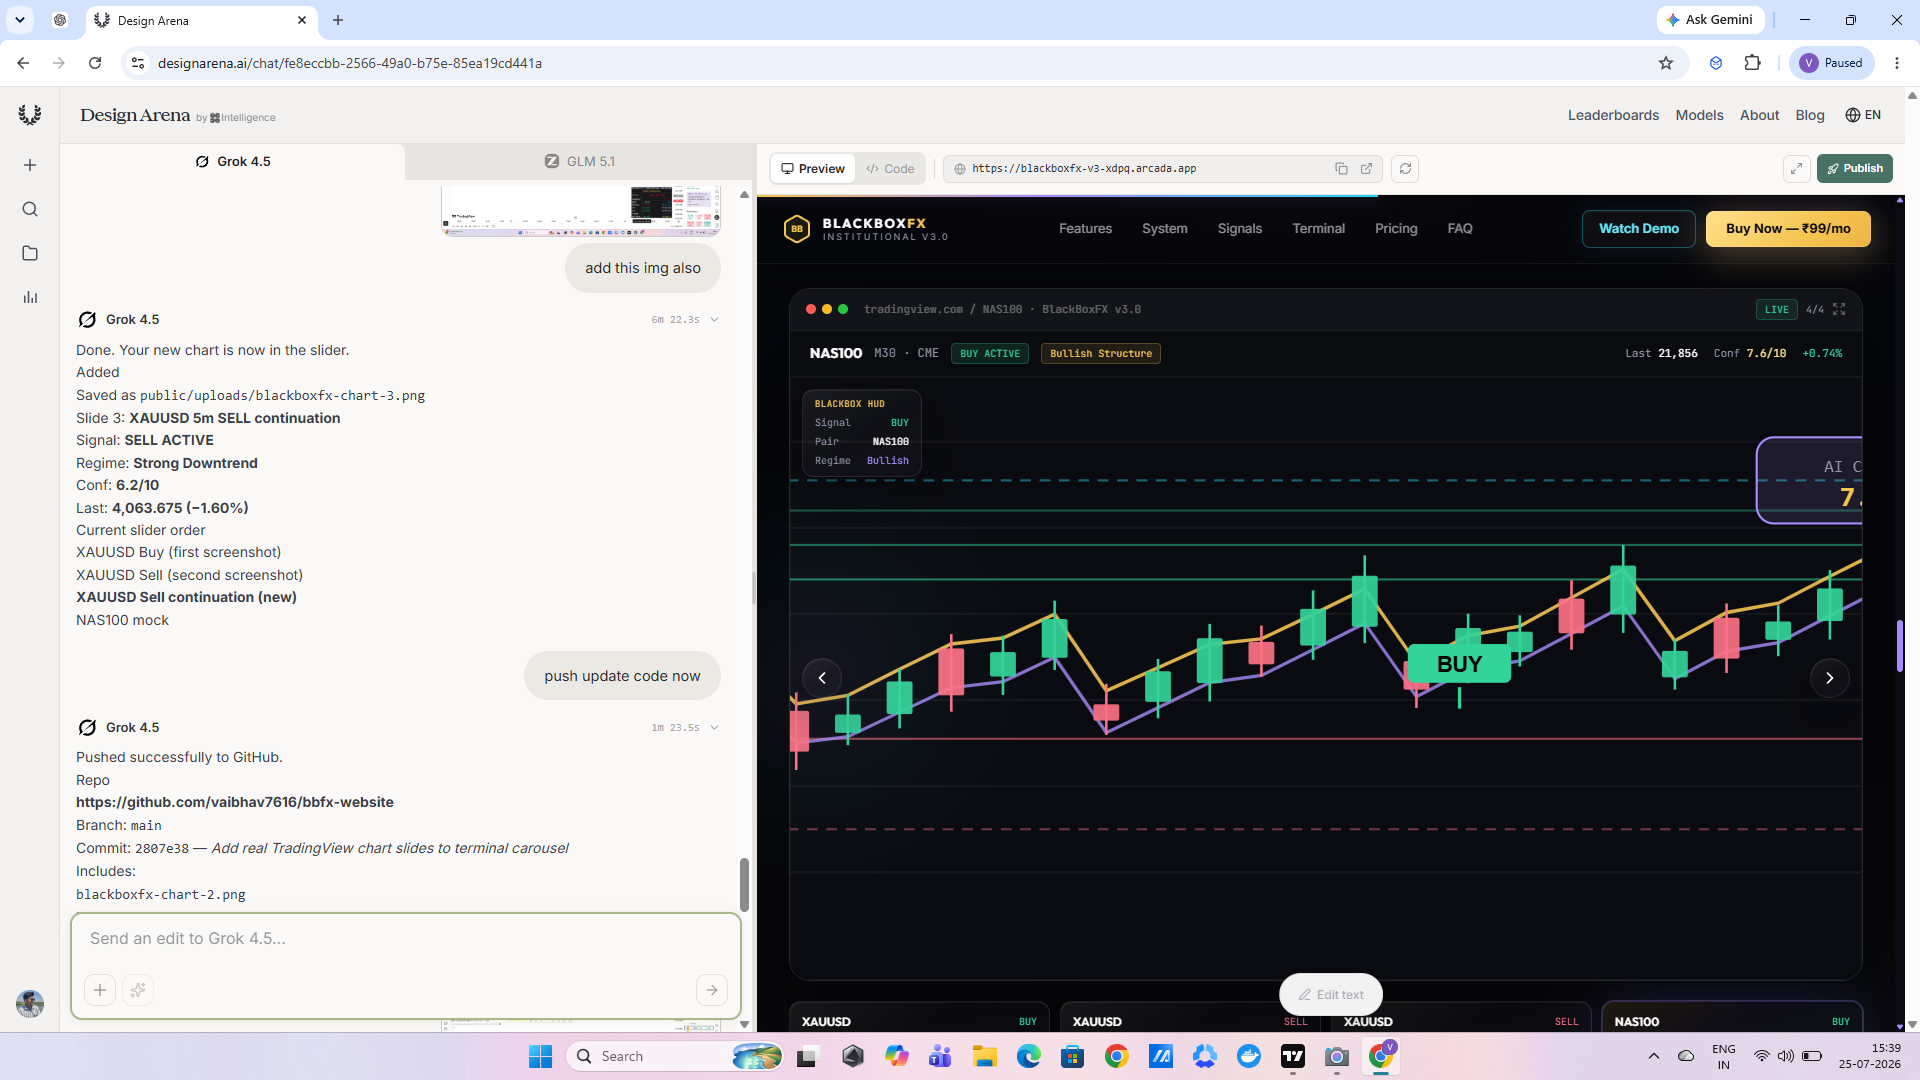
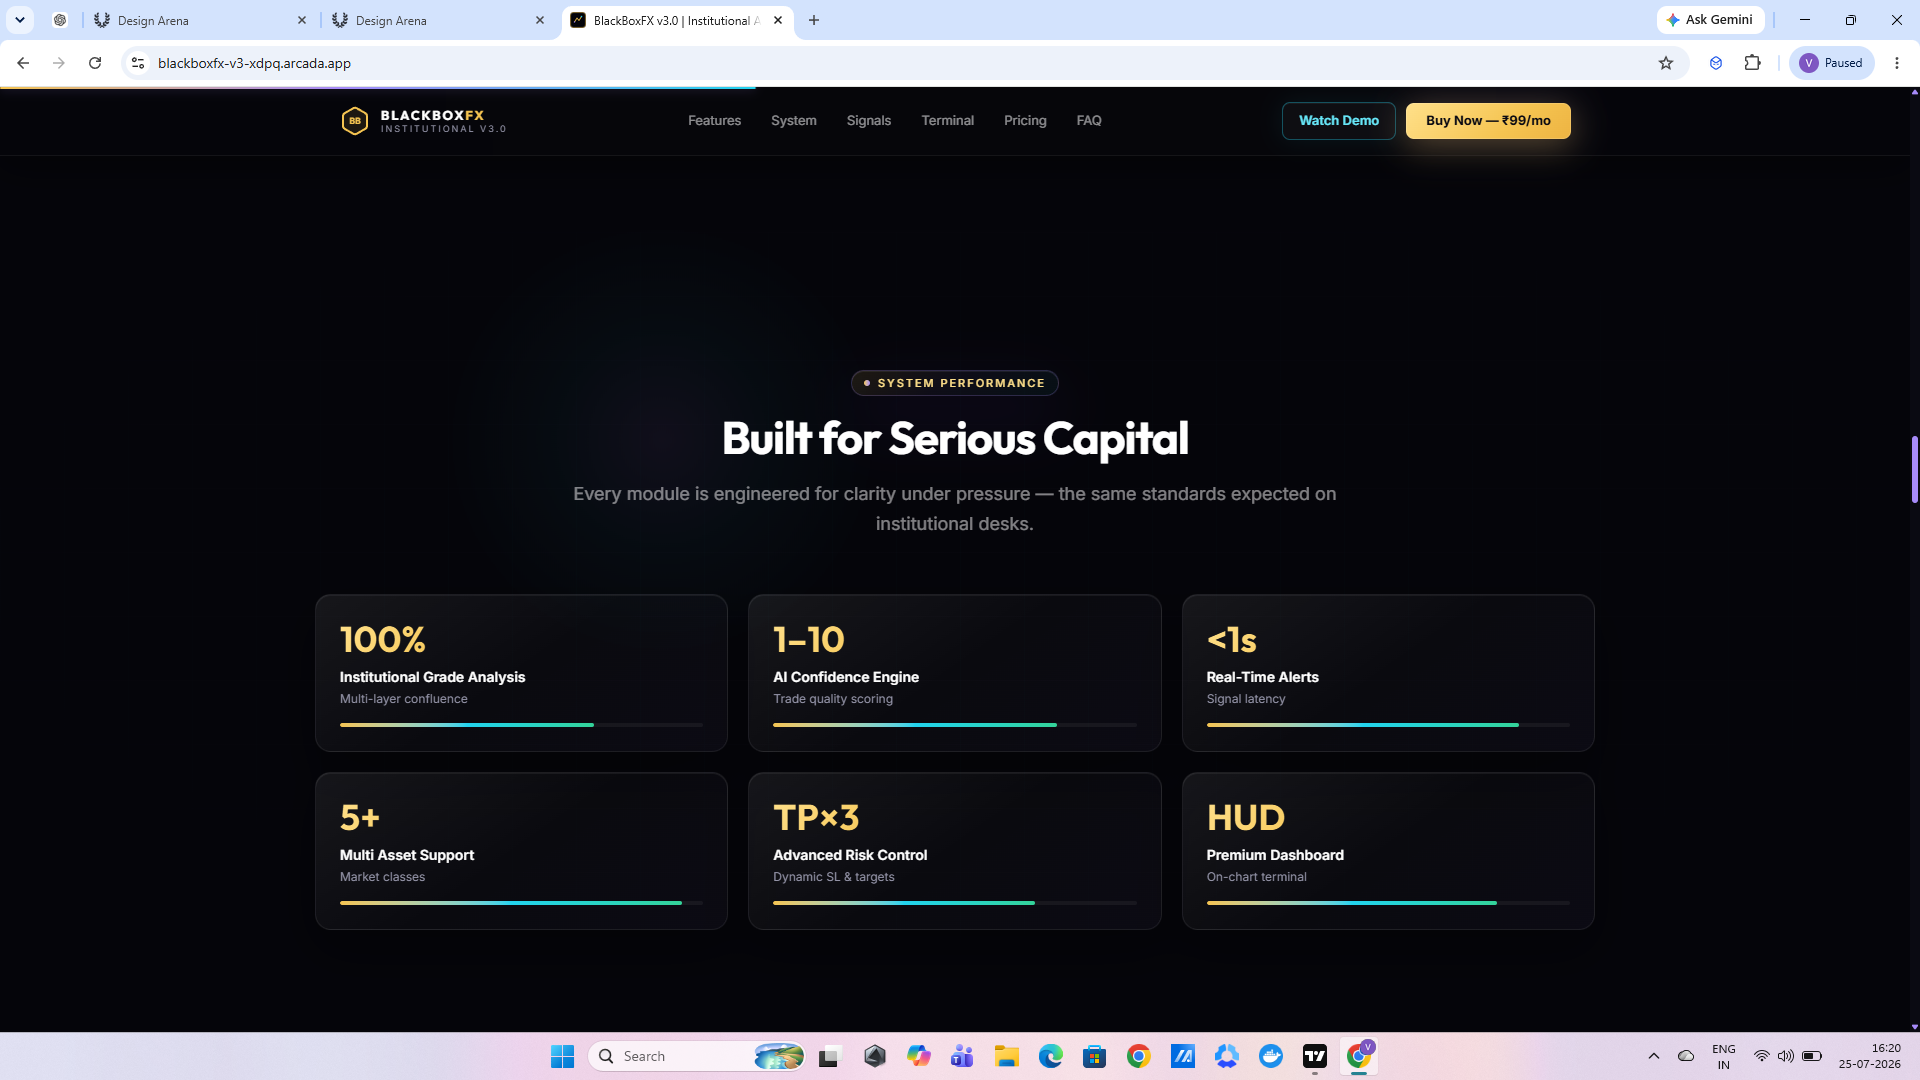
Remove Product Walkthrough demo section
Delete Demo component and retarget nav/hero/footer links to live charts.

diff --git a/src/components/Navbar.tsx b/src/components/Navbar.tsx
@@ -65,8 +65,8 @@ export default function Navbar() {
         </div>
 
         <div className="hidden lg:flex items-center gap-2.5">
-          <a href="#demo" className="btn-ghost px-4 py-2 rounded-lg text-[13px]">
-            Watch Demo
+          <a href="#chart" className="btn-ghost px-4 py-2 rounded-lg text-[13px]">
+            Live Charts
           </a>
           <a href="#pricing" className="btn-gold px-5 py-2 rounded-lg text-[13px]">
             Buy Now — ₹99/mo
@@ -105,11 +105,11 @@ export default function Navbar() {
               ))}
               <div className="mt-3 grid gap-2">
                 <a
-                  href="#demo"
+                  href="#chart"
                   onClick={() => setOpen(false)}
                   className="btn-ghost text-center px-5 py-3.5 rounded-xl text-sm"
                 >
-                  Watch Demo
+                  Live Charts
                 </a>
                 <a
                   href="#pricing"

diff --git a/src/App.tsx b/src/App.tsx
@@ -12,7 +12,6 @@ import Comparison from './components/Comparison';
 import Performance from './components/Performance';
 import Markets from './components/Markets';
 import ChartMockup from './components/ChartMockup';
-import Demo from './components/Demo';
 import Testimonials from './components/Testimonials';
 import Pricing from './components/Pricing';
 import FAQ from './components/FAQ';
@@ -88,9 +87,6 @@ export default function App() {
         </div>
         <div data-reveal>
           <ChartMockup />
-        </div>
-        <div data-reveal>
-          <Demo />
         </div>
         <div data-reveal>
           <Testimonials />

diff --git a/src/components/Hero.tsx b/src/components/Hero.tsx
@@ -82,12 +82,12 @@ export default function Hero() {
               Get Access — ₹99/mo
             </MagneticButton>
             <MagneticButton
-              href="#demo"
+              href="#chart"
               strength={0.25}
               className="btn-ghost px-8 py-3.5 rounded-xl text-center text-[15px] inline-flex items-center justify-center gap-2"
             >
               <Play className="w-4 h-4 fill-current" />
-              Watch 4-min Demo
+              View Live Charts
             </MagneticButton>
           </motion.div>
 

diff --git a/src/components/Footer.tsx b/src/components/Footer.tsx
@@ -13,7 +13,7 @@ const COLS = [
   {
     title: 'Resources',
     links: [
-      { href: '#demo', label: 'Demo' },
+      { href: '#chart', label: 'Live charts' },
       { href: '#faq', label: 'FAQ' },
       { href: '#signals', label: 'Signal feed' },
       { href: '#final-cta', label: 'Get access' },
